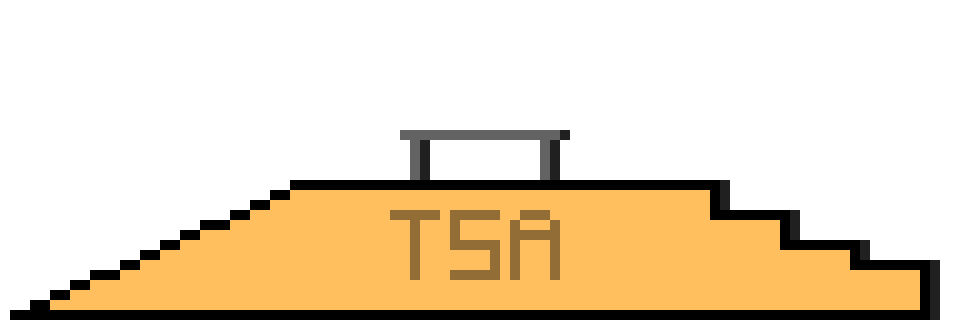
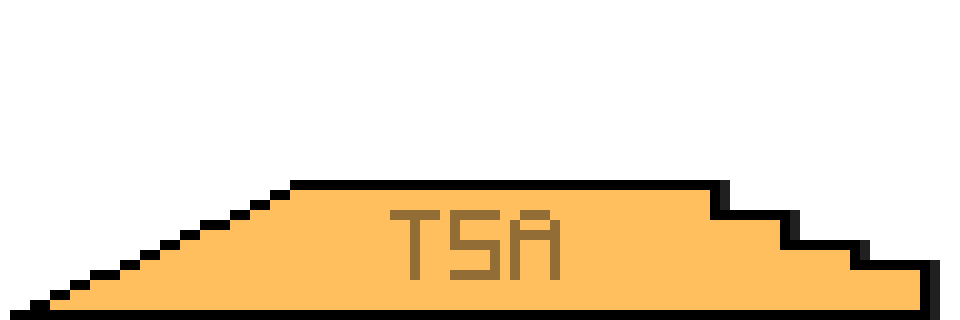
Removed rail,  trying to get score to scroll

Changed region(s): [[0.4062, 0.4062, 0.5938, 0.5625]]

diff --git a/skateboarding.js b/skateboarding.js
@@ -6,7 +6,7 @@ var physicsConfig = {
             x: 0,
             y: 2.5, // <--This is the only way I could get the skater to roll up the ramp.
         },
-        debug: false //CHANGE THIS TO TRUE TO SEE LINES
+        debug: true //CHANGE THIS TO TRUE TO SEE LINES
     }   
 }
 
@@ -38,6 +38,10 @@ var game = new Phaser.Game(config);
 var skater;
 var ground;
 var sky;
+
+//Score variables
+let score = 0;
+let scoreBoard;
 
 function preload() {
     //Images
@@ -166,6 +170,22 @@ function create() {
         skaterTouchingGround = true;
     });
 
+    //Scoreboard
+    scoreBoard = this.add.container(skater.x, 50);
+    scoreText = this.add.text(skater.x, 50, "SCORE: 0", {fontSize: '56px', color: '#fff'});
+
+    scoreBoard.add(scoreText);
+
+    this.tweens.add({
+        targets: scoreBoard,
+        x: scoreBoard.x + skater.x,
+        ease: 'Linear',
+        duration: 1,
+        delay: 1,
+        yoyo: false,
+        repeat: -1
+    });
+
 }
 
 function update() {
@@ -174,7 +194,7 @@ function update() {
     var ollie = 0;
 
     //Push
-    if (this.spacebar.isDown && skater.angle > -60 && skater.angle < 60 && skaterTouchingGround) {
+    if (this.spacebar.isDown && skater.angle > -50 && skater.angle < 50 && skaterTouchingGround) {
         //Increase speed
         pushSpeed = 10;
 
